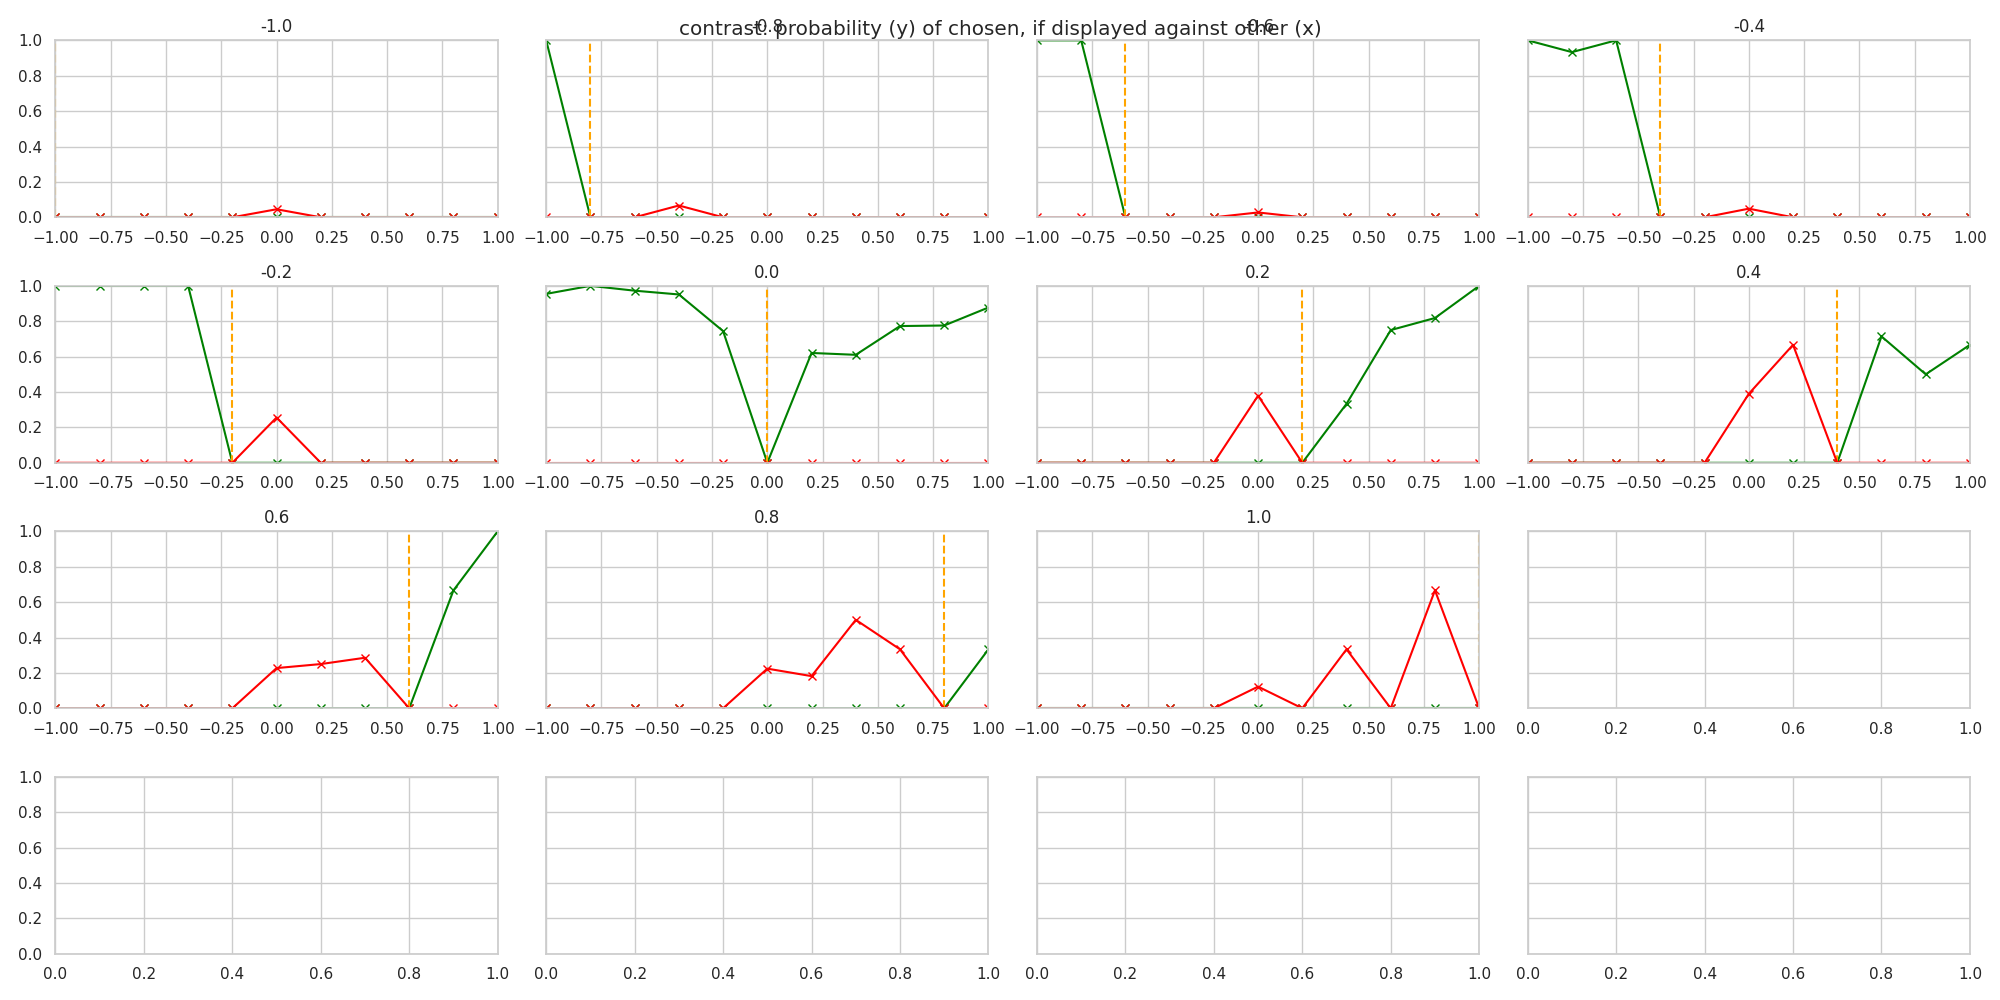
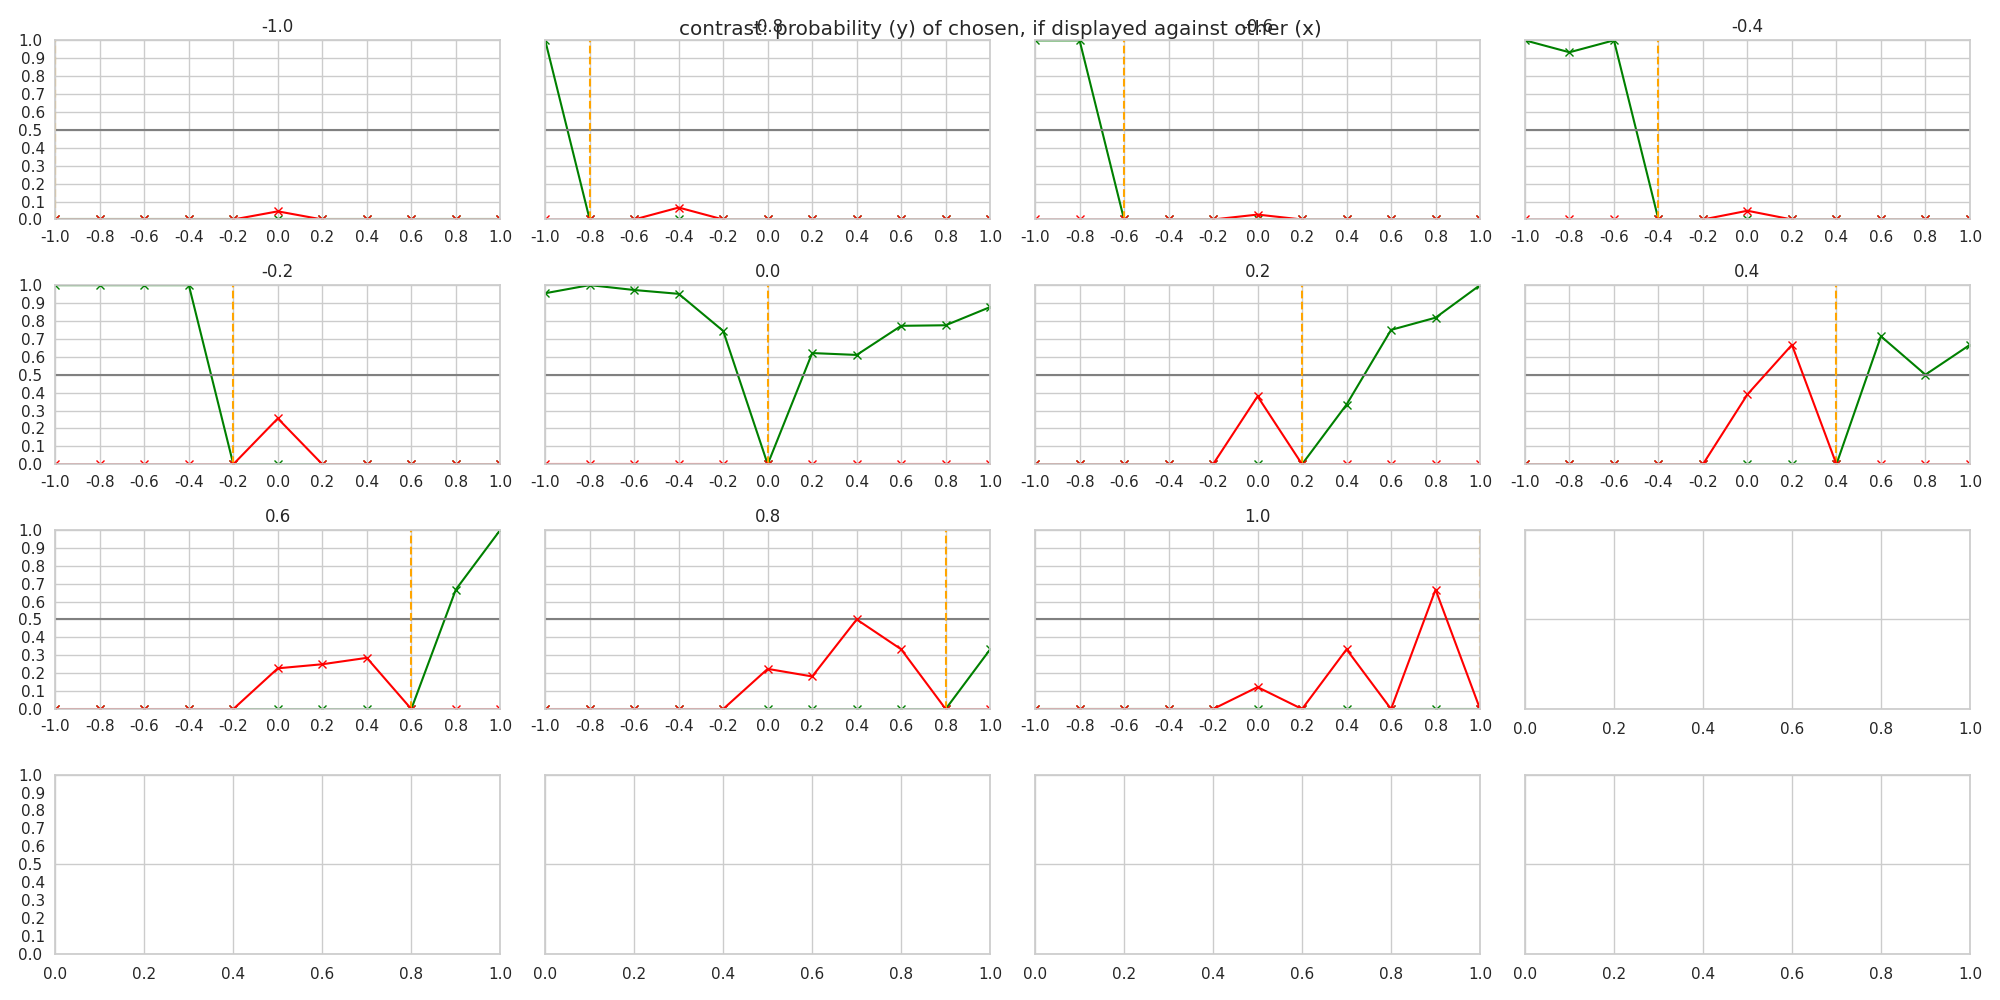
updated plots

diff --git a/survey/analyser.py b/survey/analyser.py
@@ -265,14 +265,12 @@ for i, key in enumerate(params):
     tmp = list(zip(*sorted(analyzeDict[key]["smallerChosenRelChangesOrigPresentPos"].items(), key=lambda k: k[0])))
     axs_corr[i].plot(tmp[0], tmp[1], "-x", color="orange", label="click percentage per editing distance, original present")
 
-    # axs_corr[i].grid(True, which="both") # FIXME?
-    # axs_corr[i].minorticks_on()
+    axs_corr[i].grid(True, which="both")
+    axs_corr[i].minorticks_on()
     axs_corr[i].yaxis.set_ticks([0, 0.5, 1])
     axs_corr[i].yaxis.set_major_formatter(ticker.FormatStrFormatter("%0.1f"))
     axs_corr[i].yaxis.set_ticks([0.1, 0.2, 0.3, 0.4, 0.6, 0.7, 0.8, 0.9], minor=True)
     axs_corr[i].yaxis.set_minor_formatter(ticker.FormatStrFormatter("%0.1f"))
-    # axs_corr[i].xaxis.set_ticks([])
-    # axs_corr[i].xaxis.set_ticks([])
 
     if len(analyzeDict[key]["smallerChosenRelChangesNeg"]) > 1:
         tmp = list(zip(*sorted(analyzeDict[key]["smallerChosenRelChangesNeg"].items(), key=lambda k: k[0])))
@@ -350,12 +348,23 @@ for i, key in enumerate(params):
                 x.append(valLarge)
                 y.append(analyzeDict[key]["asSmallerChosenVS"][valSmall].get(valLarge, 0))
 
+        axs_small_vs[j].grid(True, which="both")
+        axs_small_vs[j].minorticks_on()
+        axs_small_vs[j].yaxis.set_ticks([0, 0.5, 1])
+        axs_small_vs[j].yaxis.set_major_formatter(ticker.FormatStrFormatter("%0.1f"))
+        axs_small_vs[j].yaxis.set_ticks([0.1, 0.2, 0.3, 0.4, 0.6, 0.7, 0.8, 0.9], minor=True)
+        axs_small_vs[j].yaxis.set_minor_formatter(ticker.FormatStrFormatter("%0.1f"))
+        axs_small_vs[j].xaxis.set_ticks([])
+        axs_small_vs[j].xaxis.set_ticks(x, minor=True)
+        axs_small_vs[j].xaxis.set_ticklabels(x, minor=True)
+
+        axs_small_vs[j].plot(x, y, "-x", color="green", label="probability of chosen if displayed against")
+        axs_small_vs[j].axhline(y=0.5, linestyle="-", color="grey", label="equally likely clicked")
+        axs_small_vs[j].axvline(x=valSmall, linestyle="--", color="orange", label="compared")
+
         axs_small_vs[j].set_title(valSmall)
         axs_small_vs[j].set_xlim(left=min(parameter_range[key]["range"]), right=max(parameter_range[key]["range"]))
         axs_small_vs[j].set_ylim(bottom=0, top=1)
-        axs_small_vs[j].plot(x, y, "-x", color="green", label="probability of chosen if displayed against")
-        # axs_small_vs[j].axhline() # TODO
-        axs_small_vs[j].axvline(x=valSmall, linestyle="--", color="orange", label="compared")
 
     for j, valLarge in enumerate(parameter_range[key]["range"]):
         x = []
@@ -367,6 +376,9 @@ for i, key in enumerate(params):
             for valSmall in parameter_range[key]["range"]:
                 x.append(valSmall)
                 y.append(analyzeDict[key]["asLargerChosenVS"][valLarge].get(valSmall, 0))
+
+        axs_small_vs[j].xaxis.set_ticks(x, minor=True)
+        axs_small_vs[j].xaxis.set_ticklabels(x, minor=True)
 
         axs_small_vs[j].plot(x, y, "-x", color="red", label="probability of chosen if displayed against")
 
